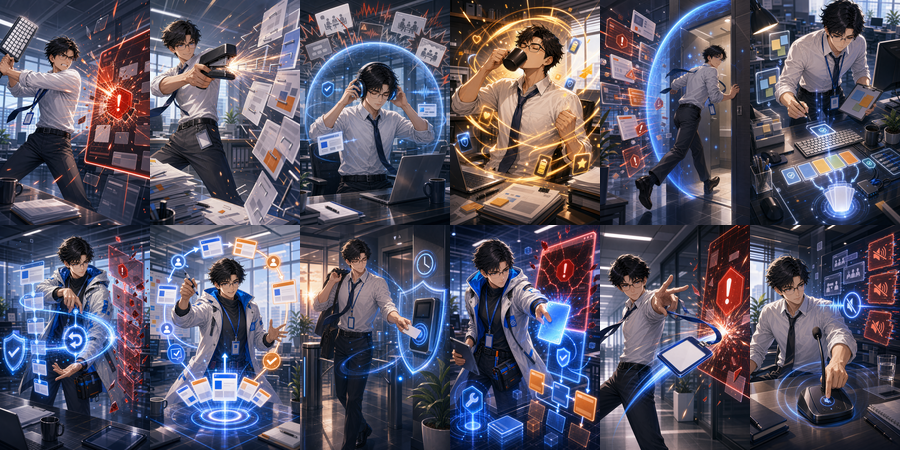
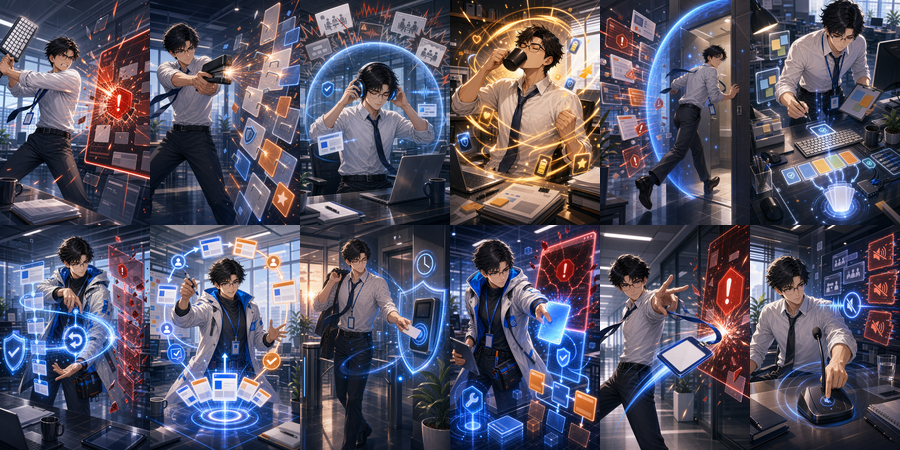
Complete shared card art manifest

Changed region(s): [[0.1556, 0.0, 0.3422, 0.4978]]

diff --git a/Resources/Docs/IMPLEMENTATION_STATUS.md b/Resources/Docs/IMPLEMENTATION_STATUS.md
@@ -277,4 +277,4 @@ Godot MCP verified:
 ### Remaining Gaps Toward Full Game
 
 - Combat balance, full status hook matrix, and full visual polish remain prototype-level.
-- Remaining card illustration gaps are outside the currently wired backend/frontend/tester/algorithm/product-manager P0 batches and still use placeholder card UI.
+- Remaining card illustration gaps, if pursued, are outside the generated P0 representative/shared batches and belong to later non-representative or expansion card-art polish.